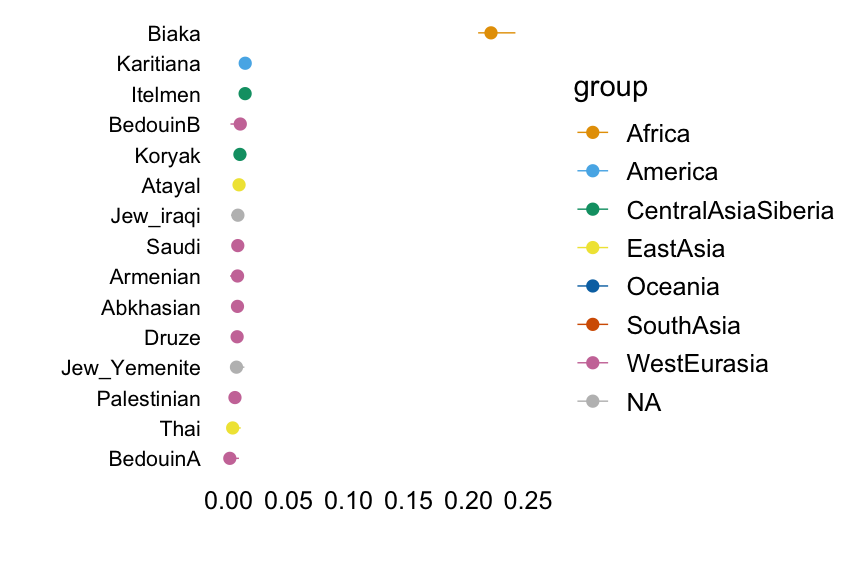
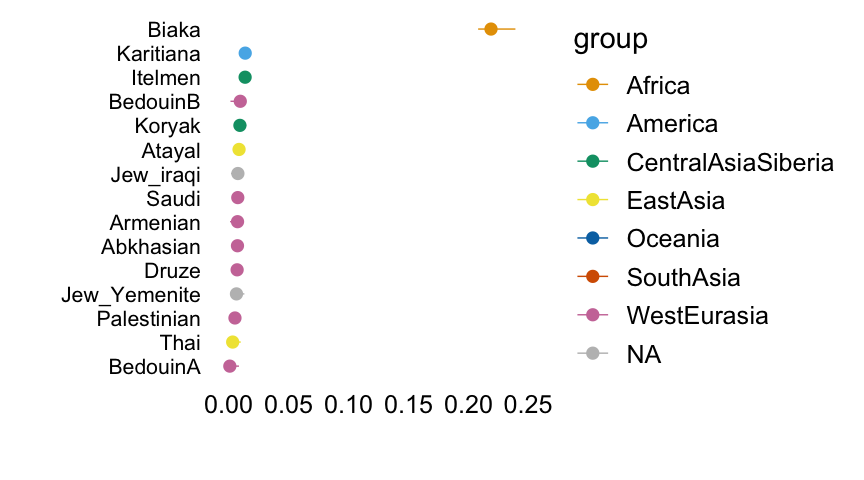
Some other small adjustments to the hoa_global_alt analysis.

Changed region(s): [[0.0625, 0.0312, 0.6562, 0.9062], [0.6562, 0.0625, 0.9688, 0.75], [0.5625, 0.0312, 0.5938, 0.0938]]

diff --git a/docs/hoa_global_alt.html b/docs/hoa_global_alt.html
@@ -420,10 +420,10 @@ This reproducible <a href="http://rmarkdown.rstudio.com">R Markdown</a> analysis
 <div class="panel panel-default">
 <div class="panel-heading">
 <p class="panel-title">
-<a data-toggle="collapse" data-parent="#workflowr-checks" href="#strongRepositoryversionstrongahrefhttpsgithubcomjhmarcusdriftworkflowtree7643dfb805faa83fcee02520a5e54e6c3b5eacb6targetblank7643dfba"> <span class="glyphicon glyphicon-ok text-success" aria-hidden="true"></span> <strong>Repository version:</strong> <a href="https://github.com/jhmarcus/drift-workflow/tree/7643dfb805faa83fcee02520a5e54e6c3b5eacb6" target="_blank">7643dfb</a> </a>
+<a data-toggle="collapse" data-parent="#workflowr-checks" href="#strongRepositoryversionstrongahrefhttpsgithubcomjhmarcusdriftworkflowtreef607f258af6dafa938a2fec0cf653510d52fa59btargetblankf607f25a"> <span class="glyphicon glyphicon-ok text-success" aria-hidden="true"></span> <strong>Repository version:</strong> <a href="https://github.com/jhmarcus/drift-workflow/tree/f607f258af6dafa938a2fec0cf653510d52fa59b" target="_blank">f607f25</a> </a>
 </p>
 </div>
[2 lines of base64/hex data omitted]
 <div class="panel-body">
 <p>
 Great! You are using Git for version control. Tracking code development and connecting the code version to the results is critical for reproducibility. The version displayed above was the version of the Git repository at the time these results were generated. <br><br> Note that you need to be careful to ensure that all relevant files for the analysis have been committed to Git prior to generating the results (you can use <code>wflow_publish</code> or <code>wflow_git_commit</code>). workflowr only checks the R Markdown file, but you know if there are other scripts or data files that it depends on. Below is the status of the Git repository when the results were generated:
@@ -467,6 +467,23 @@ Message
 </tr>
 </thead>
 <tbody>
+<tr>
+<td>
+html
+</td>
+<td>
+<a href="https://rawcdn.githack.com/jhmarcus/drift-workflow/e4fe5d378b46cbdf9f0fd2cc366cbf4ea6e1f21a/docs/hoa_global_alt.html" target="_blank">e4fe5d3</a>
+</td>
+<td>
+Peter Carbonetto
+</td>
+<td>
+2019-03-14
+</td>
+<td>
+More interpretatory text and adjustment of plots in hoa_global_alt analysis.
+</td>
+</tr>
 <tr>
 <td>
 Rmd
@@ -1282,24 +1299,172 @@ Peter Carbonetto
 <p>Factor 16 captures individuals of Surui origin.</p>
 <pre class="r"><code>with(hoa,plot.response.by.label(factor16,Simple.Population.ID,Region))</code></pre>
 <p><img src="figure/hoa_global_alt.Rmd/plot-factor-16-1.png" width="432" style="display: block; margin: auto;" /></p>
+<p>
+<button type="button" class="btn btn-default btn-xs btn-workflowr btn-workflowr-fig" data-toggle="collapse" data-target="#fig-plot-factor-16-1">
+Past versions of plot-factor-16-1.png
+</button>
+</p>
+<div id="fig-plot-factor-16-1" class="collapse">
+<div class="table-responsive">
+<table class="table table-condensed table-hover">
+<thead>
+<tr>
+<th>
+Version
+</th>
+<th>
+Author
+</th>
+<th>
+Date
+</th>
+</tr>
+</thead>
+<tbody>
+<tr>
+<td>
+<a href="https://github.com/jhmarcus/drift-workflow/blob/e4fe5d378b46cbdf9f0fd2cc366cbf4ea6e1f21a/docs/figure/hoa_global_alt.Rmd/plot-factor-16-1.png" target="_blank">e4fe5d3</a>
+</td>
+<td>
+Peter Carbonetto
+</td>
+<td>
+2019-03-14
+</td>
+</tr>
+</tbody>
+</table>
+</div>
+</div>
 </div>
 <div id="factor-17" class="section level3">
 <h3>Factor 17</h3>
 <p>Factor 17 captures the Biaka ancestral population.</p>
 <pre class="r"><code>with(hoa,plot.response.by.label(factor17,Simple.Population.ID,Region))</code></pre>
 <p><img src="figure/hoa_global_alt.Rmd/plot-factor-17-1.png" width="432" style="display: block; margin: auto;" /></p>
+<p>
+<button type="button" class="btn btn-default btn-xs btn-workflowr btn-workflowr-fig" data-toggle="collapse" data-target="#fig-plot-factor-17-1">
+Past versions of plot-factor-17-1.png
+</button>
+</p>
+<div id="fig-plot-factor-17-1" class="collapse">
+<div class="table-responsive">
+<table class="table table-condensed table-hover">
+<thead>
+<tr>
+<th>
+Version
+</th>
+<th>
+Author
+</th>
+<th>
+Date
+</th>
+</tr>
+</thead>
+<tbody>
+<tr>
+<td>
+<a href="https://github.com/jhmarcus/drift-workflow/blob/e4fe5d378b46cbdf9f0fd2cc366cbf4ea6e1f21a/docs/figure/hoa_global_alt.Rmd/plot-factor-17-1.png" target="_blank">e4fe5d3</a>
+</td>
+<td>
+Peter Carbonetto
+</td>
+<td>
+2019-03-14
+</td>
+</tr>
+</tbody>
+</table>
+</div>
+</div>
 </div>
 <div id="factor-18" class="section level3">
 <h3>Factor 18</h3>
 <p>Factor 18 picks out people with Karitianan origins.</p>
 <pre class="r"><code>with(hoa,plot.response.by.label(factor18,Simple.Population.ID,Region))</code></pre>
 <p><img src="figure/hoa_global_alt.Rmd/plot-factor-18-1.png" width="432" style="display: block; margin: auto;" /></p>
+<p>
+<button type="button" class="btn btn-default btn-xs btn-workflowr btn-workflowr-fig" data-toggle="collapse" data-target="#fig-plot-factor-18-1">
+Past versions of plot-factor-18-1.png
+</button>
+</p>
+<div id="fig-plot-factor-18-1" class="collapse">
+<div class="table-responsive">
+<table class="table table-condensed table-hover">
+<thead>
+<tr>
+<th>
+Version
+</th>
+<th>
+Author
+</th>
+<th>
+Date
+</th>
+</tr>
+</thead>
+<tbody>
+<tr>
+<td>
+<a href="https://github.com/jhmarcus/drift-workflow/blob/e4fe5d378b46cbdf9f0fd2cc366cbf4ea6e1f21a/docs/figure/hoa_global_alt.Rmd/plot-factor-18-1.png" target="_blank">e4fe5d3</a>
+</td>
+<td>
+Peter Carbonetto
+</td>
+<td>
+2019-03-14
+</td>
+</tr>
+</tbody>
+</table>
+</div>
+</div>
 </div>
 <div id="factor-19" class="section level3">
 <h3>Factor 19</h3>
 <p>Factor 19 captures the Pima ancestral population.</p>
 <pre class="r"><code>with(hoa,plot.response.by.label(factor19,Simple.Population.ID,Region))</code></pre>
 <p><img src="figure/hoa_global_alt.Rmd/plot-factor-19-1.png" width="432" style="display: block; margin: auto;" /></p>
+<p>
+<button type="button" class="btn btn-default btn-xs btn-workflowr btn-workflowr-fig" data-toggle="collapse" data-target="#fig-plot-factor-19-1">
+Past versions of plot-factor-19-1.png
+</button>
+</p>
+<div id="fig-plot-factor-19-1" class="collapse">
+<div class="table-responsive">
+<table class="table table-condensed table-hover">
+<thead>
+<tr>
+<th>
+Version
+</th>
+<th>
+Author
+</th>
+<th>
+Date
+</th>
+</tr>
+</thead>
+<tbody>
+<tr>
+<td>
+<a href="https://github.com/jhmarcus/drift-workflow/blob/e4fe5d378b46cbdf9f0fd2cc366cbf4ea6e1f21a/docs/figure/hoa_global_alt.Rmd/plot-factor-19-1.png" target="_blank">e4fe5d3</a>
+</td>
+<td>
+Peter Carbonetto
+</td>
+<td>
+2019-03-14
+</td>
+</tr>
+</tbody>
+</table>
+</div>
+</div>
 </div>
 <div id="factor-20" class="section level3">
 <h3>Factor 20</h3>
@@ -1311,7 +1476,45 @@ Peter Carbonetto
 <h3>Factor 21</h3>
 <p>Factor 21 picks out the Mbuti.</p>
 <pre class="r"><code>with(hoa,plot.response.by.label(factor21,Simple.Population.ID,Region))</code></pre>
-<img src="figure/hoa_global_alt.Rmd/plot-factor-21-1.png" width="432" style="display: block; margin: auto;" /> <br> <br>
+<p><img src="figure/hoa_global_alt.Rmd/plot-factor-21-1.png" width="432" style="display: block; margin: auto;" /></p>
+<p>
+<button type="button" class="btn btn-default btn-xs btn-workflowr btn-workflowr-fig" data-toggle="collapse" data-target="#fig-plot-factor-21-1">
+Past versions of plot-factor-21-1.png
+</button>
+</p>
+<div id="fig-plot-factor-21-1" class="collapse">
+<div class="table-responsive">
+<table class="table table-condensed table-hover">
+<thead>
+<tr>
+<th>
+Version
+</th>
+<th>
+Author
+</th>
+<th>
+Date
+</th>
+</tr>
+</thead>
+<tbody>
+<tr>
+<td>
+<a href="https://github.com/jhmarcus/drift-workflow/blob/e4fe5d378b46cbdf9f0fd2cc366cbf4ea6e1f21a/docs/figure/hoa_global_alt.Rmd/plot-factor-21-1.png" target="_blank">e4fe5d3</a>
+</td>
+<td>
+Peter Carbonetto
+</td>
+<td>
+2019-03-14
+</td>
+</tr>
+</tbody>
+</table>
+</div>
+</div>
+<br> <br>
 <p>
 <button type="button" class="btn btn-default btn-workflowr btn-workflowr-sessioninfo" data-toggle="collapse" data-target="#workflowr-sessioninfo" style="display: block;">
 <span class="glyphicon glyphicon-wrench" aria-hidden="true"></span> Session information
